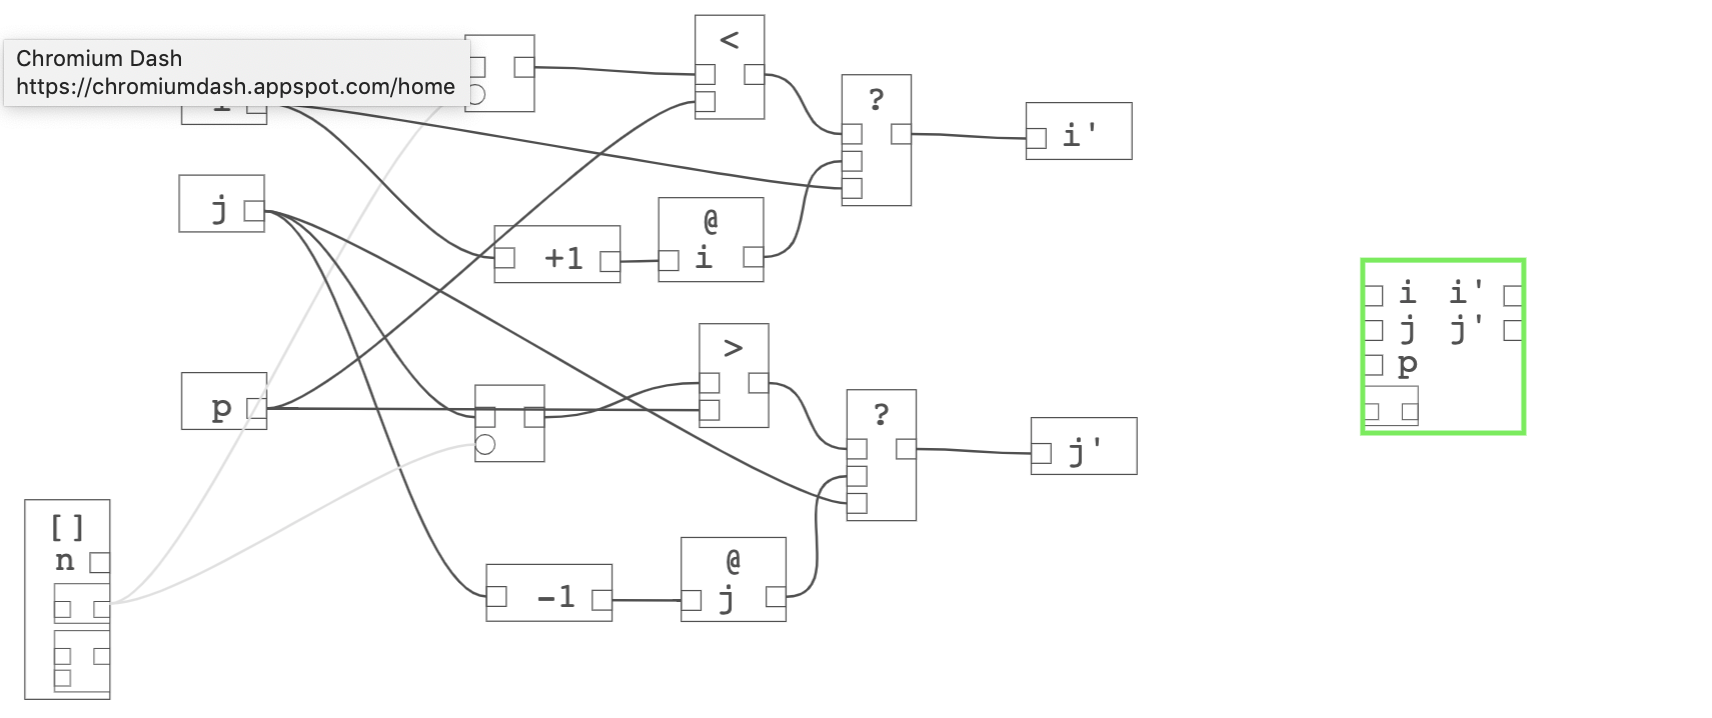
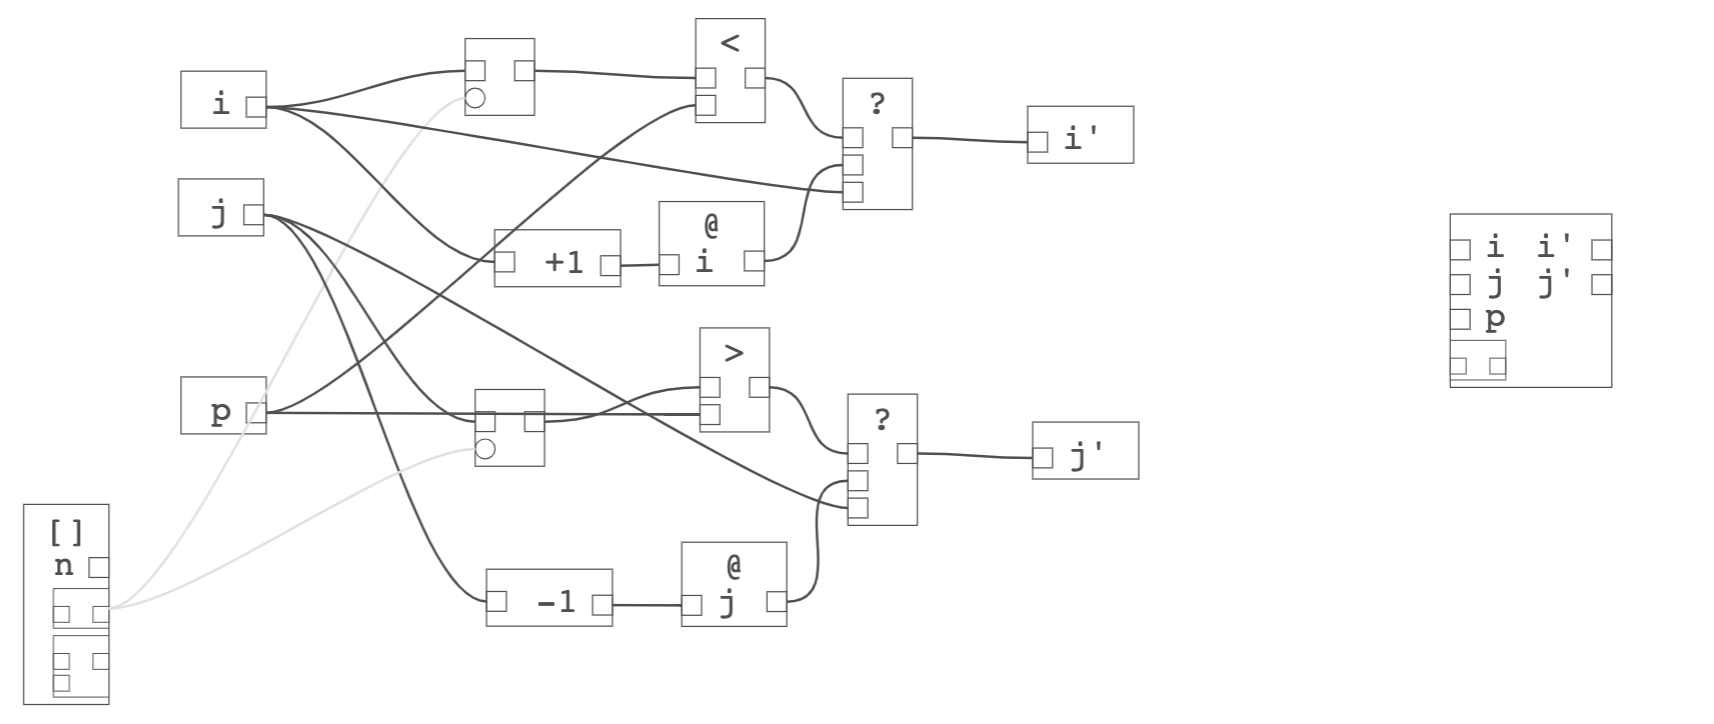
More docs

diff --git a/README.md b/README.md
@@ -185,6 +185,10 @@ function qsort(a, i, j) {
   <img src="/resources/quicksort.png"  alt="" title="Quicksort partition-in-place loop">
 </figure>
 
+<figure>
+  <img src="/resources/quicksort2.png"  alt="" title="Iteration over stateful object">
+</figure>
+
 ## Stateful Iteration Protocols
 
 ## Semantic Details
